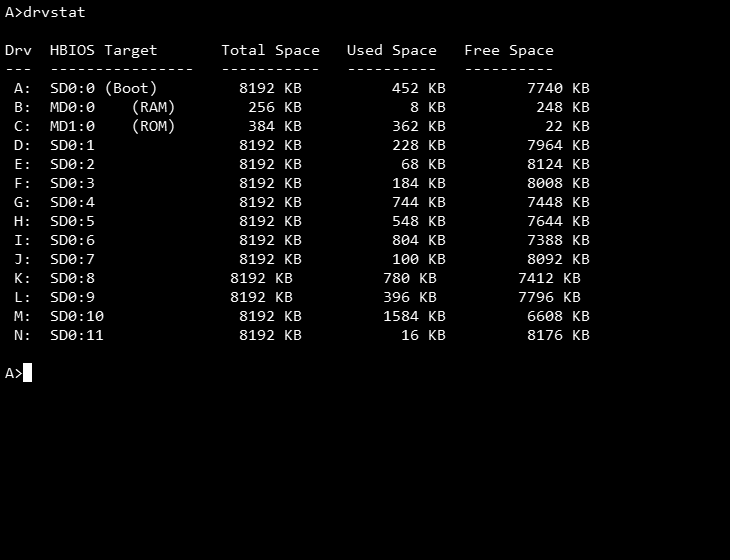
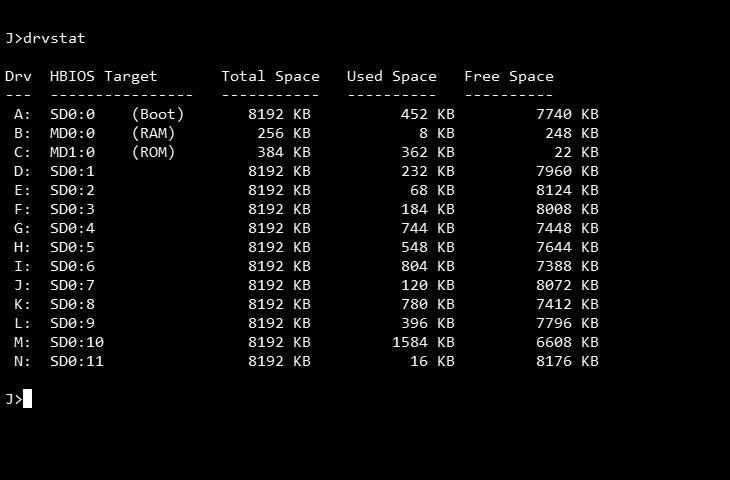
Modified code to align columns, updated screenshot

diff --git a/RomWBW-HBIOS/Turbo-Pascal-3/README.md b/RomWBW-HBIOS/Turbo-Pascal-3/README.md
@@ -2,18 +2,29 @@
 
 **DRVSTAT.PAS** — reports total/used/free space for RomWBW drives. For each drive it calls HBIOS via `Bdos`/`BdosHL` to select the disk, fetch the Disk Parameter Block (DPB) and Allocation Vector (ALV) addresses directly out of memory, then reads block size and total block count from the DPB and counts zero bits in the ALV bitmap to determine free space. Labels the boot/RAM/ROM drives by name (`SD0:0 (Boot)`, `MD0:0 (RAM)`, `MD1:0 (ROM)`) and everything else as `SD0:n`.
 
+![DRVSTAT output](screenshot-drvstat-output.png)
+
+
 **Update 1 (superseded by Update 2 below) — attempted dynamic drive detection.** Investigation (with real boot-log evidence) confirmed the original hardcoded `if Drive < 14` cutoff wasn't a RomWBW/CBIOS architectural limit — `ASSIGN` works identically at boot or run manually later, no timing sensitivity. The real reason O:/P: were unreachable is simply that this machine's SD card was only ever formatted with 12 CP/M slices — nothing to assign those letters *to*. That part of the diagnosis held up. The attempted fix didn't: it assumed CP/M BDOS function 14 (Select Disk) returns 0 cleanly for an unassigned drive, the same way the underlying BIOS-level `SELDSK` routine is documented to. That's true at the BIOS layer, but **BDOS wraps Select Disk with its own built-in error trap** that fires immediately on an invalid drive — printing `Bdos Err On x: Select` and aborting execution — *before* the calling program ever gets control back to check a return value. Confirmed on real hardware: this crashed at drive O:, recoverable only via Ctrl-C.
 
 **Update 2 — reverted to a manual, known-safe cutoff.** Since checking Select Disk's return value can't work as a safety mechanism for this function, the drive-count limit is back to being a hardcoded constant (`MAX_CONFIGURED_DRIVE`, currently `13` — i.e. drives A: through N:) that must be edited by hand to match your own system's actual configured drive count (count the letters in your own `Configuring Drives...` boot banner). The Update 1 improvements that *were* safe — named constants (`BOOT_DRIVE`/`RAM_DRIVE`/`ROM_DRIVE`/`SD_SLICE_OFFSET`) replacing scattered hardcoded checks in the print logic — are kept, since those never touched the actual crash risk.
 
 Honestly, the BDOS/CBIOS interaction that causes the crash isn't something I fully understand at the level of "here's exactly what's happening and why" — just that it demonstrably happens, confirmed once on real hardware. There's probably a genuinely safe way to detect an unassigned drive without hitting BDOS's error trap, but rather than guess again and risk another crash, this reverts to the boring-but-known-safe manual cutoff until someone (possibly future me) actually understands the mechanism well enough to fix it properly.
 
-![DRVSTAT output](screenshot-drvstat-output.png)
+**Update 3 — fixed column alignment, and it was a genuinely findable bug, not just cosmetic sloppiness.** The old code hand-counted trailing spaces per case to pad the target label to a fixed width, and the branch that was supposed to use one fewer space for double-digit slice numbers checked `Drive >= 10` (the drive *letter's* position) instead of whether the *computed slice number* (`Drive - SD_SLICE_OFFSET`) was actually double-digit — those two things diverge by exactly `SD_SLICE_OFFSET`. Since the offset is 2, drives K:/L: (slice numbers 8/9, single-digit) incorrectly got double-digit padding and landed one character short.
+
+On top of that, measuring the header string precisely (rather than eyeballing it, which is exactly the mistake that caused the original bug) turned up a second issue: even the "correctly" padded rows were only 18 characters wide, while the header's label field is actually 19 — so the *entire table* was shifted one character left relative to the header the whole time, not just the K:/L: rows.
+
+Fixed by building the label into a string variable and padding it to a fixed width in one place (a small `PadRight` procedure) instead of hand-counting spaces per branch — this removes the whole category of bug regardless of how many digits any part of the label has, and pads to the header's actual measured width (19) rather than whatever the previously-buggy body rows happened to add up to.
+
+While testing this, also caught and fixed a separate cosmetic inconsistency: `(Boot)` had only 1 space before it while `(RAM)`/`(ROM)` had 4, even though `SD0:0`/`MD0:0`/`MD1:0` are all the same length — no reason for them to land in different columns. Aligned to match.
+
+**Confirmed on real hardware** — all 14 rows now line up cleanly under the header, including `(Boot)`/`(RAM)`/`(ROM)`.
 
 ## Future ideas
 
-- **Column alignment** — the current output isn't consistently padded/aligned across all rows; worth tightening up.
 - **Stretch goals** — box-drawing borders around the table, and color-coding entries by free-space percentage (e.g. red/yellow/green thresholds).
 - **Fully automatic labels** — if a verified HBIOS call for querying the real unit name string behind a drive letter is ever found, the `BOOT_DRIVE`/`RAM_DRIVE`/`ROM_DRIVE` constants could be replaced with genuine auto-detection instead of a manual mapping. Not yet researched.
-- **Genuinely safe dynamic drive-count detection** — worth revisiting if there's ever appetite for it, but *not* via Select Disk's return value (proven unsafe above). A next candidate worth trying cautiously: BDOS function 24 (Return Login Vector) returns a bitmap of which drives have been logged into so far this session — checking that *before* ever calling Select Disk might avoid triggering the error trap at all, since every currently-assigned drive is likely already logged in by the time DRVSTAT runs (from ordinary CP/M activity like running commands from that drive). This is unverified and could have its own false-negative edge cases (a validly-assigned-but-never-yet-selected drive reading as unlogged); if pursued, test incrementally rather than trusting it outright.
-Not yet implemented.
+- ~~Genuinely safe dynamic drive-count detection~~ — **investigated further and it's likely a dead end.** The login-vector idea above doesn't work: a drive's login-vector bit only ever gets set as a direct side effect of a *successful* Select Disk call (confirmed by reading real BDOS-family source), so there's no way to check "is this logged in" without doing the very call that risks the crash. Bigger picture: the `Bdos Err On x: Select` trap almost certainly isn't in RomWBW's own CBIOS code at all — it's most likely baked into the standard Digital Research CP/M 2.2 BDOS itself, which RomWBW runs mostly unmodified underneath its hardware layer. That means there's probably no fix reachable from a normal CP/M application without bypassing BDOS entirely and talking to the BIOS jump table directly — a much bigger, riskier undertaking than anything attempted so far, and not something worth chasing for a drive-status utility. Leaving it as-is.
+
+Not yet implemented (stretch goals / fully automatic labels only).